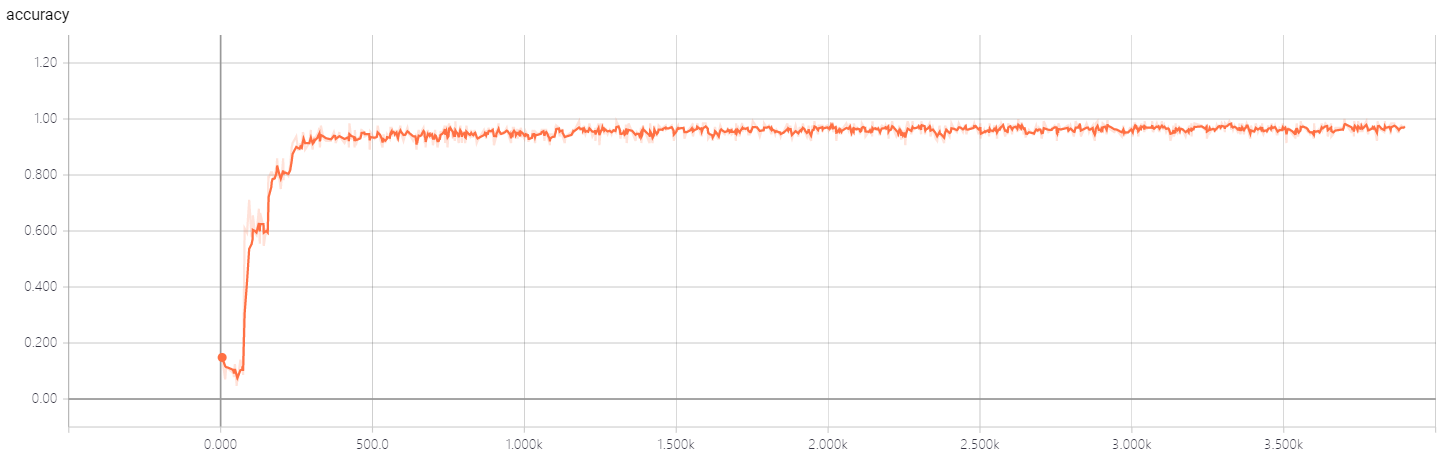
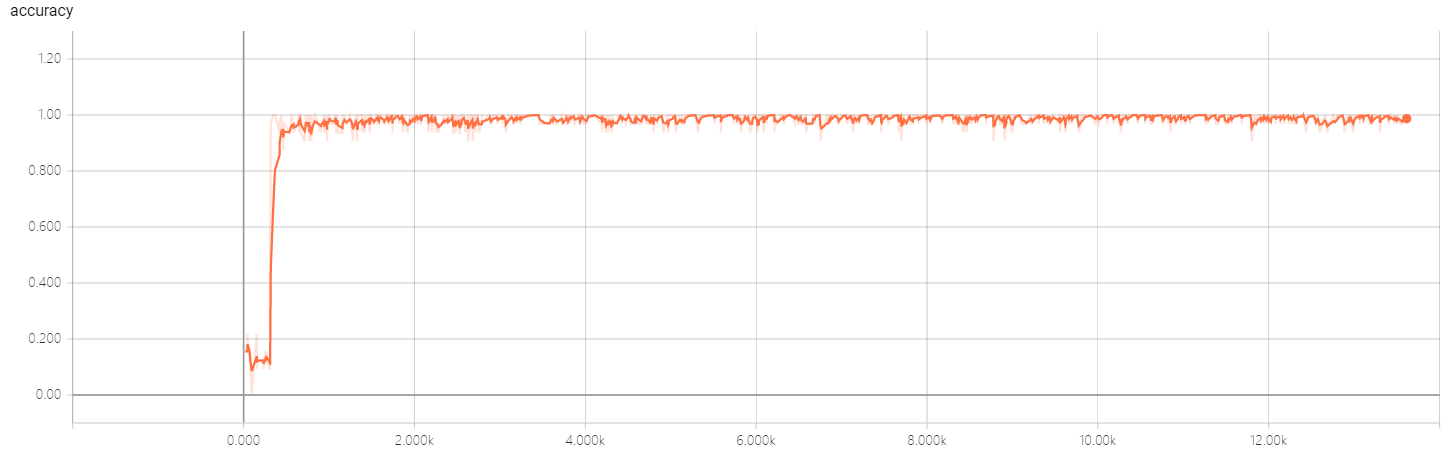
spread loss

diff --git a/README.md b/README.md
@@ -1,7 +1,7 @@
 # MATRIX CAPSULES EM-Tensorflow
 
 [![License](https://img.shields.io/badge/license-Apache%202.0-blue.svg?style=plastic)](https://opensource.org/licenses/Apache-2.0)
-![completion](https://img.shields.io/badge/completion%20state-70%25-blue.svg?style=plastic)
+![completion](https://img.shields.io/badge/completion%20state-95%25-blue.svg?style=plastic)
 
 A Tensorflow implementation of CapsNet based on paper [Matrix Capsules with EM Routing](https://openreview.net/pdf?id=HJWLfGWRb)
 
@@ -12,16 +12,17 @@ A Tensorflow implementation of CapsNet based on paper [Matrix Capsules with EM R
 > 4. With configuration A=32, B=4, D=4, D=4, batch_size=128, each iteration of training takes around 0.6s on a Tesla P40 GPU.
 
 > **Current Results on MNIST:**
-- Configuration: A=32, B=4, C=4, D=4, batch_size=128, iteration number of EM routing: 2, with Coordinate Addition, cross entropy loss
+- Configuration: A=32, B=8, C=16, D=16, batch_size=32, iteration number of EM routing: 2, with Coordinate Addition, loss
 
-- Training loss
+- Training loss. Some variations of training loss can be observed, however test accuracy is stable.
 ![cross entropy loss](imgs/training_loss.png)
 
-- Test accuracy(current best result is 96.80%)
+- Test accuracy(current best result is 99.1%)
 ![test_acc](imgs/test_accuracy.png)
 
 > **Ablation Study:**
 - Configuration: A=32, B=4, C=4, D=4, batch_size=128, iteration number of EM routing: 2, no Coordinate Addition, cross entropy loss, test accuracy is 96.4%.
+- Configuration: A=32, B=4, C=4, D=4, batch_size=128, iteration number of EM routing: 2, with Coordinate Addition, cross entropy loss
 
 > **To Do List:**
 > 1. Experiments on smallNORB as in paper is about to be casted.
